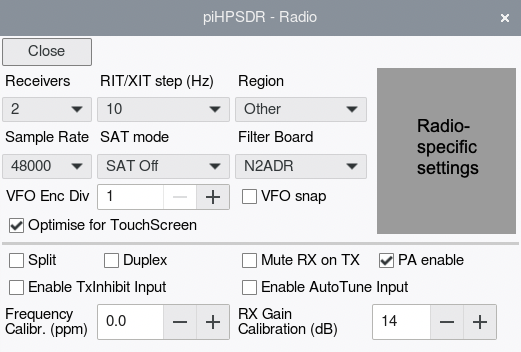
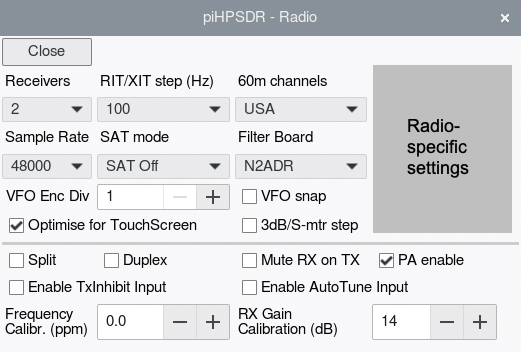
Manual: updated section on Radio menu, explaining the "3dB per S meter step" box.

diff --git a/release/LatexManual/piHPSDR-Manual.tex b/release/LatexManual/piHPSDR-Manual.tex
@@ -324,7 +324,7 @@ running on a desktop or laptop computer, then the computer offers no such GPIO l
 
 The most versatile way for providing input lines is certainly to use a small micro-controller (uC) which
 has such lines and which communicates with the computer using MIDI commands over an USB connection.
-Chapter \ref{midimenu} explains in detail how one can ,,teach'' \pH to make use of such MIDI commands
+Chapter \ref{sec:midimenu} explains in detail how one can ,,teach'' \pH to make use of such MIDI commands
 (see also Appendix \ref{sec:ConnectCW}). Personally I use a standard CW keyer software on an ArduinoMicro
 with a small extension that sends MIDI commands for PTT on/off and Key up/down events. A ,,luxury''
 version thereof is described in
@@ -1415,11 +1415,15 @@ an encoder assigned to the \bltt{RIT} command. Note that for the
 size is part of the RX/TX profile (see chapter \ref{sec:rxtxprofiles}) and therefore it is automatically updated
 if you change the mode.
 
-\rett{Region}. Although not obvious, this selects settings for the 60m band. Possible choices are "Other",
-"UK" and "WRC15". The \texttt{Other} and \texttt{UK} choices implement the channel structure of the 60m
-band according to the regulations valid in the USA and Great Britain. "WRC15" gives you a small (15 kHz
+\rett{60m channels}. When operating in the 60m band, the allowed frequency ranges have a reddish
+colour in the RX panadapter. Possible choices are \texttt{USA}, \texttt{UK}, and \texttt{WRC15},
+The \texttt{USA} and \texttt{UK} choices implement the channel structure of the 60m
+band according to the regulations valid in the USA and Great Britain. \texttt{WRC15} gives you a small (15 kHz
 wide) 60m band according to the WRC15 (World Radio Conference 2015) document, which is now implemented in
-many countries.
+many countries. Note that since the end of 2025, FCC regulations have changed such that one of the
+five U.S. channels has been replaced by a band with regulations very similar to WRC15. To my knowledge,
+WRC15 allocation is still not in effect in the U.K. Given to this fairly complicated regulatory
+situation, please inform yourself which regulations apply in your country!
 
 \rett{Sample Rate}. This box does not appear for HPSDR radios running protocol-2, since there each receiver
 has its own sample rate that is therefore set in the \bltt{RX} menu (chapter \ref{sec:rxmenu}). For HPSDR
@@ -1453,7 +1457,9 @@ in combination with a HermesLite-II radio. It is controlled by the OC (open coll
 protocol. This means if you use \texttt{N2ADR}, this will override your OC settings upon program startup.
 It is possible to change the OC settings in the \bltt{OC} menu, and these settings are saved with the
 preferences. Upon next program start, however, these preferences will again be overwritten as long
-as the \texttt{N2ADR} filter board is chosen.
+as the \texttt{N2ADR} filter board is chosen. This means that if you want to use the \texttt{N2ADR}
+board with non-standard settings, you have to choose \texttt{NONE} for the filter board and make
+your settings in the \bltt{OC} menu!
 
 \rett{VFO Enc Div}. This option applies to VFO knobs in front panels, GPIO
 or MIDI controllers. In some cases, these encoders generate too many ticks per revolution,
@@ -1473,16 +1479,24 @@ it with a mouse.
 pop-down menu (such as the \rett{Receivers} button on this screen) is to click
 (and hold) it with a mouse, then drag the mouse to your choice, and then the selection
 is made by releasing the mouse button. This is very difficult to achieve on a touch
-screen. Therefore, if \rett{Optimise for TouchScreen} checkbox is checked, the pop-down
-menus are modified as follows: You click and release on the menu button, then it pops
+screen. Therefore, if \rett{Optimise for TouchScreen} is checked, the behaviour of pop-down
+menus is modified as follows: You click and release on the menu button, then it pops
 down and stays open. Then you make your selection by a second click/release sequence
 on your choice. While this is (only a little bit) more involved than the normal procedure
 when using a mouse, it is a great helper when using a touch screen. Therefore this
 option is set by default, but you can uncheck it here if you prefer normal
 mouse operation. Note that this option becomes effective when the next menu is opened.
 
-The next line with check boxes \rett{Split}, \rett{Duplex}, \rett{Mute RX on TX} and
-\rett{PA enable} is only shown for radios that have a transmitter.
+\rett{3dB/S-mtr step}. There is an IARU recommendation that 1 step on the S-meter
+corresponds to difference in signal level of 6 dB. While the recommendation for the
+S9 level ($-73$ dBm for frequencies up to 30 MHz, and $-93$ dBm for higher frequencies)
+is well respected, some major amateur radio hardware producers have S-meters where
+one S-meter step corresponds to a 3 dB signal level difference. \pH normally follows
+the IARU recommendation but if this box is checked, 3 dB steps are used in the S meter
+scale, that is, $-73$ dBm is shown as S9 and $-76$ dBm as S8, etc.
+
+The next line (below the horizontal line) with check boxes \rett{Split}, \rett{Duplex},
+\rett{Mute RX on TX} and \rett{PA enable} is only shown for radios that have a transmitter.
 
 \rett{Split}. Use this checkbox to enable/disable Split mode. In Split mode, the frequency of
 the non-active receiver (when using two receivers) or the frequency of VFO-B (when using one
@@ -1553,9 +1567,9 @@ four times larger at 28 MHz. Note that for transverter bands, adjusting the freq
 is better done by adjusting the local oscillator frequency (see Sec. \ref{sec:xvtrmenu}).
 
 \rett{RX Gain Calibration} Here you can calibrate your RF front end. To this end, you
-need a highly accurate signal source of, say, -73 dBm. Connect this source to your
+need a highly accurate signal source of, say, $-73$ dBm. Connect this source to your
 radio and tune on the signal. If the signal reported by the meter
-appears too strong (say, at -65 dBm),
+appears too strong (say, at $-65$ dBm),
 \textit{decrease} the
 calibration value with the spin button until the meter shows the correct level.
 The RX gain calibration value can be viewed as the  amplification/attenuation of
@@ -1563,7 +1577,8 @@ a virtual device you
 would need in your RF front end. Therefore, you need a negative calibration value (attenuation)
 if the signal in the meter is too strong. For most HPSDR radios, the default value is
 zero. For the HermesLite-II and other radios using the AD9866 chip, the default
-value is 14, but this may depend on the RF front end.
+value is 14, but this is a rough estimate and certainly depends on details of
+the RF front end.
 
 \subsubsection{Orion/Orion-II/Saturn}
 For these radios, the upper right corner of the radio menu is as shown in

diff --git a/src/radio_menu.c b/src/radio_menu.c
@@ -565,13 +565,13 @@ void radio_menu(GtkWidget *parent) {
   if (row > max_row) { max_row = row; }
 
   row = 1;
-  label = gtk_label_new("Region");
+  label = gtk_label_new("60m channels");
   gtk_widget_set_name(label, "boldlabel");
   gtk_widget_set_halign(label, GTK_ALIGN_START);
   gtk_grid_attach(GTK_GRID(grid), label, 2, row, 1, 1);
   row++;
   GtkWidget *region_combo = gtk_combo_box_text_new();
-  gtk_combo_box_text_append(GTK_COMBO_BOX_TEXT(region_combo), NULL, "Other");
+  gtk_combo_box_text_append(GTK_COMBO_BOX_TEXT(region_combo), NULL, "USA");
   gtk_combo_box_text_append(GTK_COMBO_BOX_TEXT(region_combo), NULL, "UK");
   gtk_combo_box_text_append(GTK_COMBO_BOX_TEXT(region_combo), NULL, "WRC15");
   gtk_combo_box_set_active(GTK_COMBO_BOX(region_combo), region);
@@ -641,10 +641,10 @@ void radio_menu(GtkWidget *parent) {
   gtk_toggle_button_set_active (GTK_TOGGLE_BUTTON (ChkBtn), optimize_for_touchscreen);
   gtk_grid_attach(GTK_GRID(grid), ChkBtn, 0, row, 2, 1);
   g_signal_connect(ChkBtn, "toggled", G_CALLBACK(toggle_cb), &optimize_for_touchscreen);
-  ChkBtn = gtk_check_button_new_with_label("Use 3 dB per S-meter step");
+  ChkBtn = gtk_check_button_new_with_label("3dB/S-mtr step");
   gtk_widget_set_name(ChkBtn, "boldlabel");
   gtk_toggle_button_set_active (GTK_TOGGLE_BUTTON (ChkBtn), smeter3dB);
-  gtk_grid_attach(GTK_GRID(grid), ChkBtn, 2, row, 2, 1);
+  gtk_grid_attach(GTK_GRID(grid), ChkBtn, 2, row, 1, 1);
   g_signal_connect(ChkBtn, "toggled", G_CALLBACK(toggle_cb), &smeter3dB);
   row++;
 

diff --git a/src/meter.c b/src/meter.c
@@ -109,7 +109,7 @@ void meter_update(RECEIVER *rx, int meter_type, double value, double alc, double
   int txmode = vfo[txvfo].mode;
   int cwmode = (txmode == modeCWU || txmode == modeCWL);
   const BAND *band = band_get_band(vfo[txvfo].band);
-  double smtr, smtr2;
+  double smtr = 0.0, smtr2;
 
   //
   // First, do all the work that  does not depend on whether the
